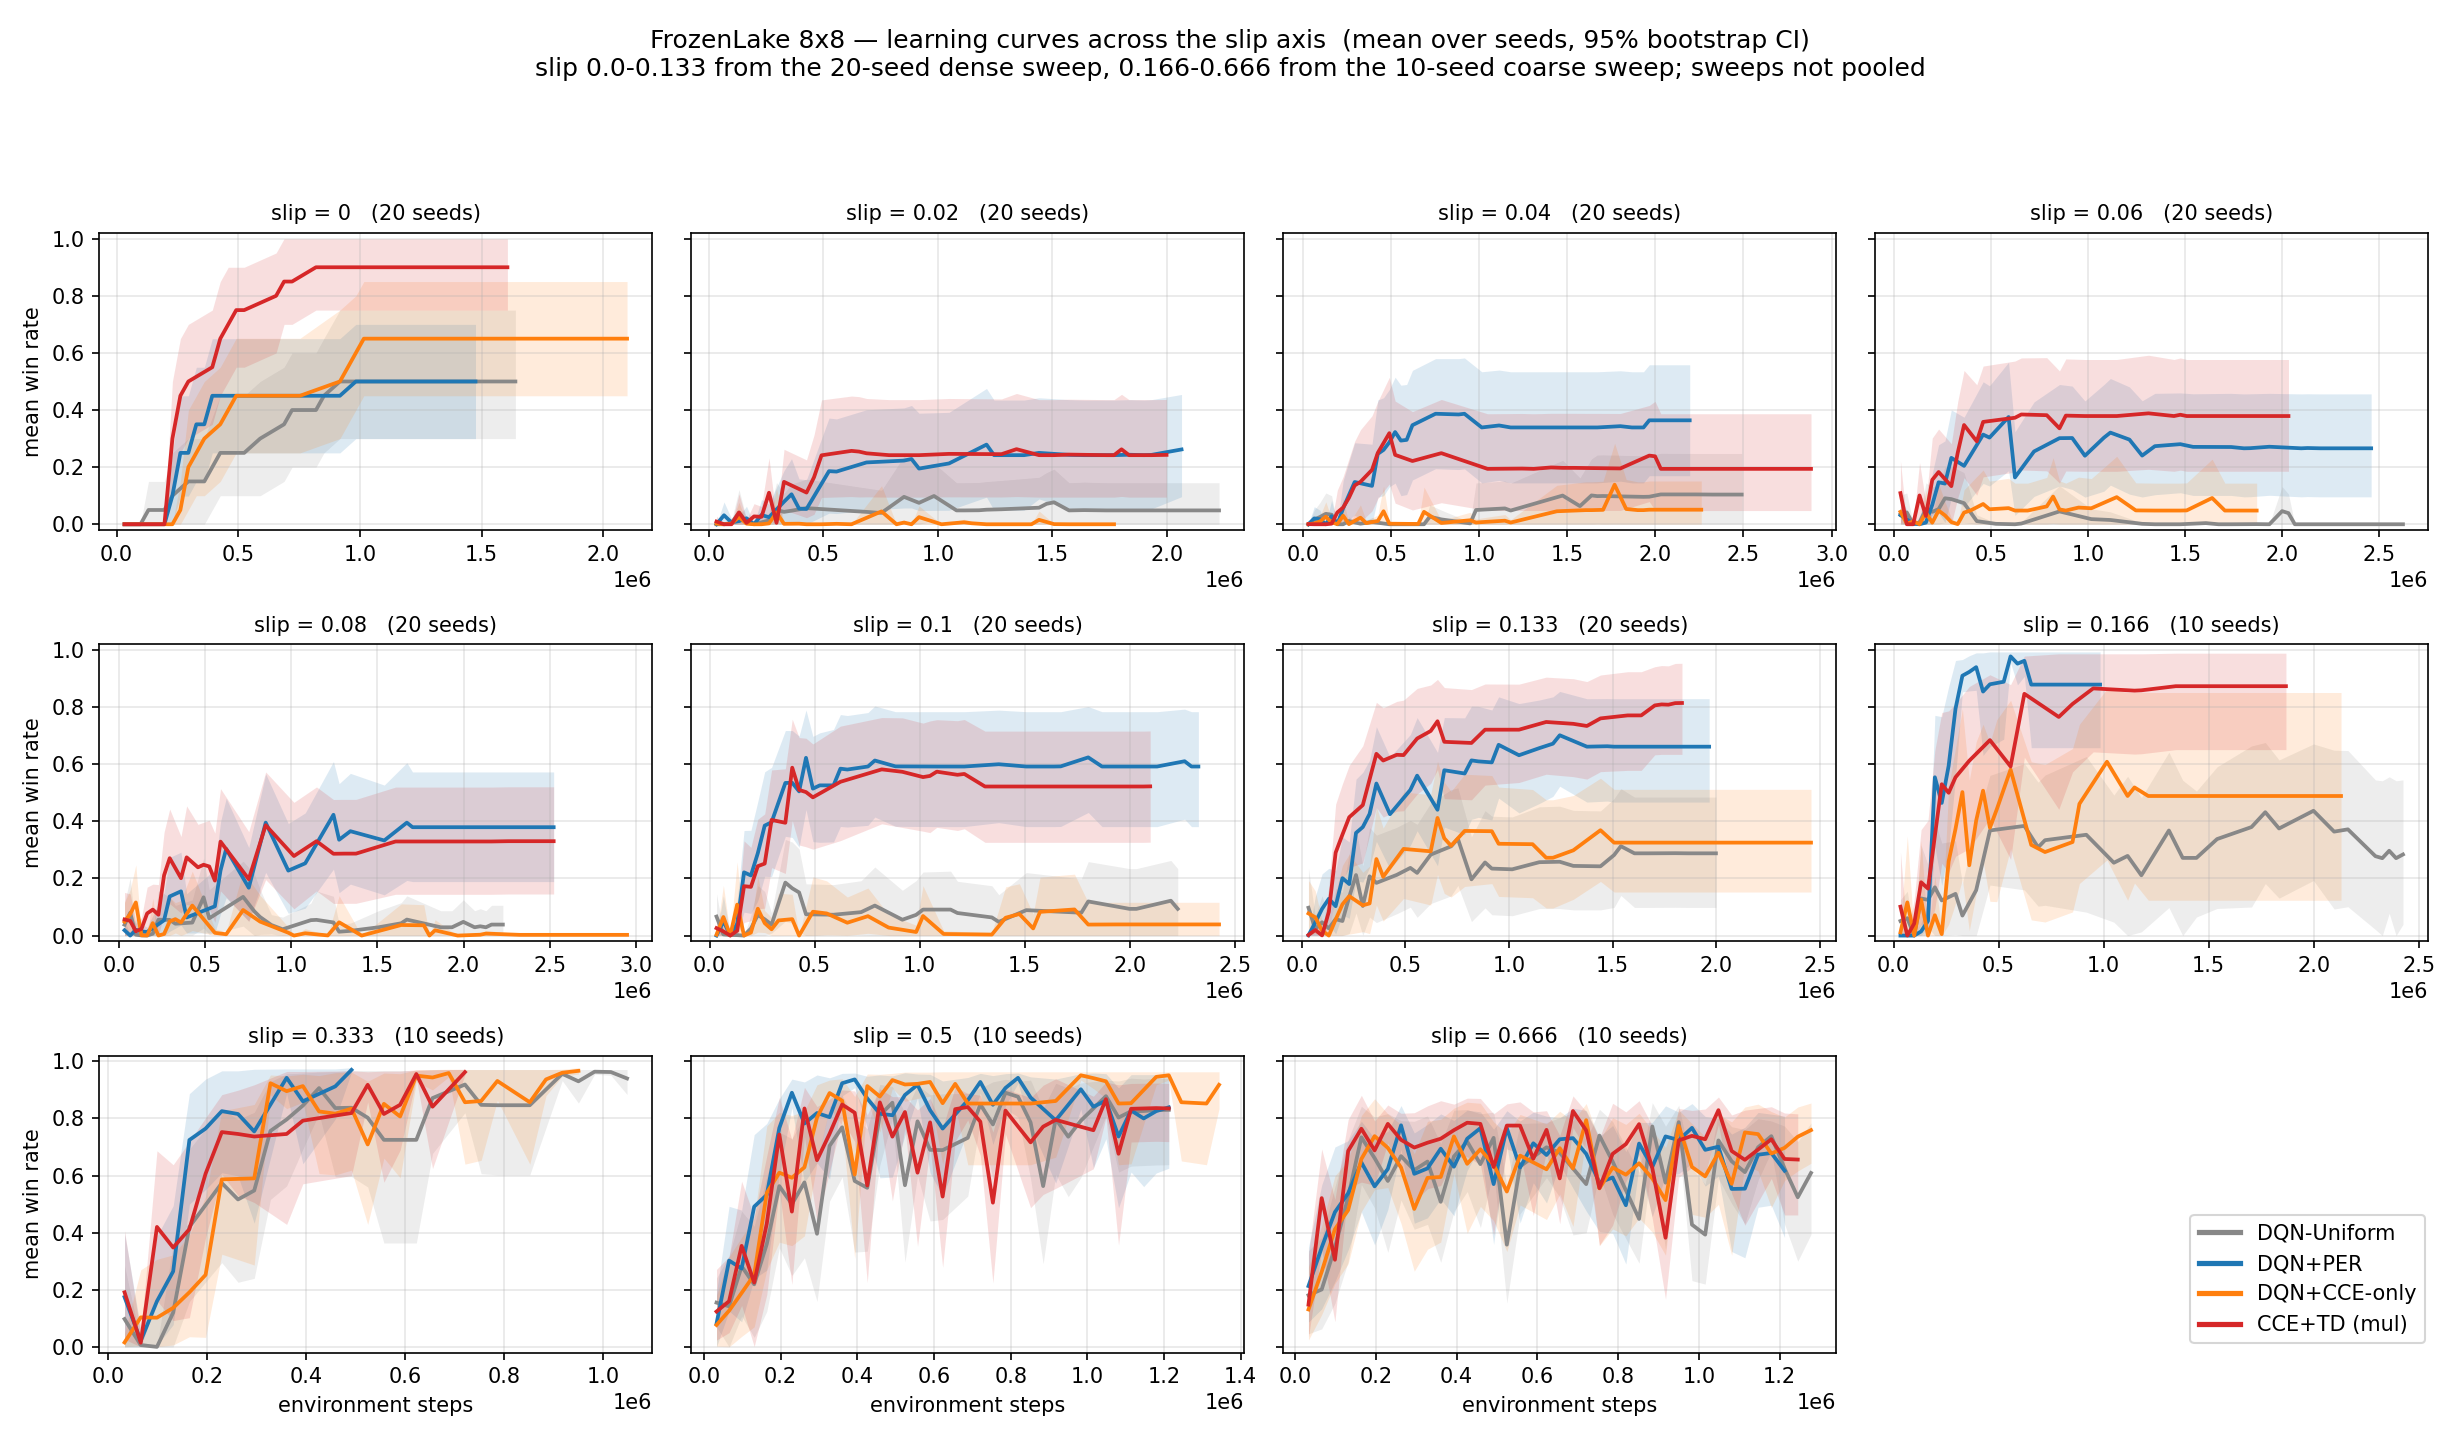
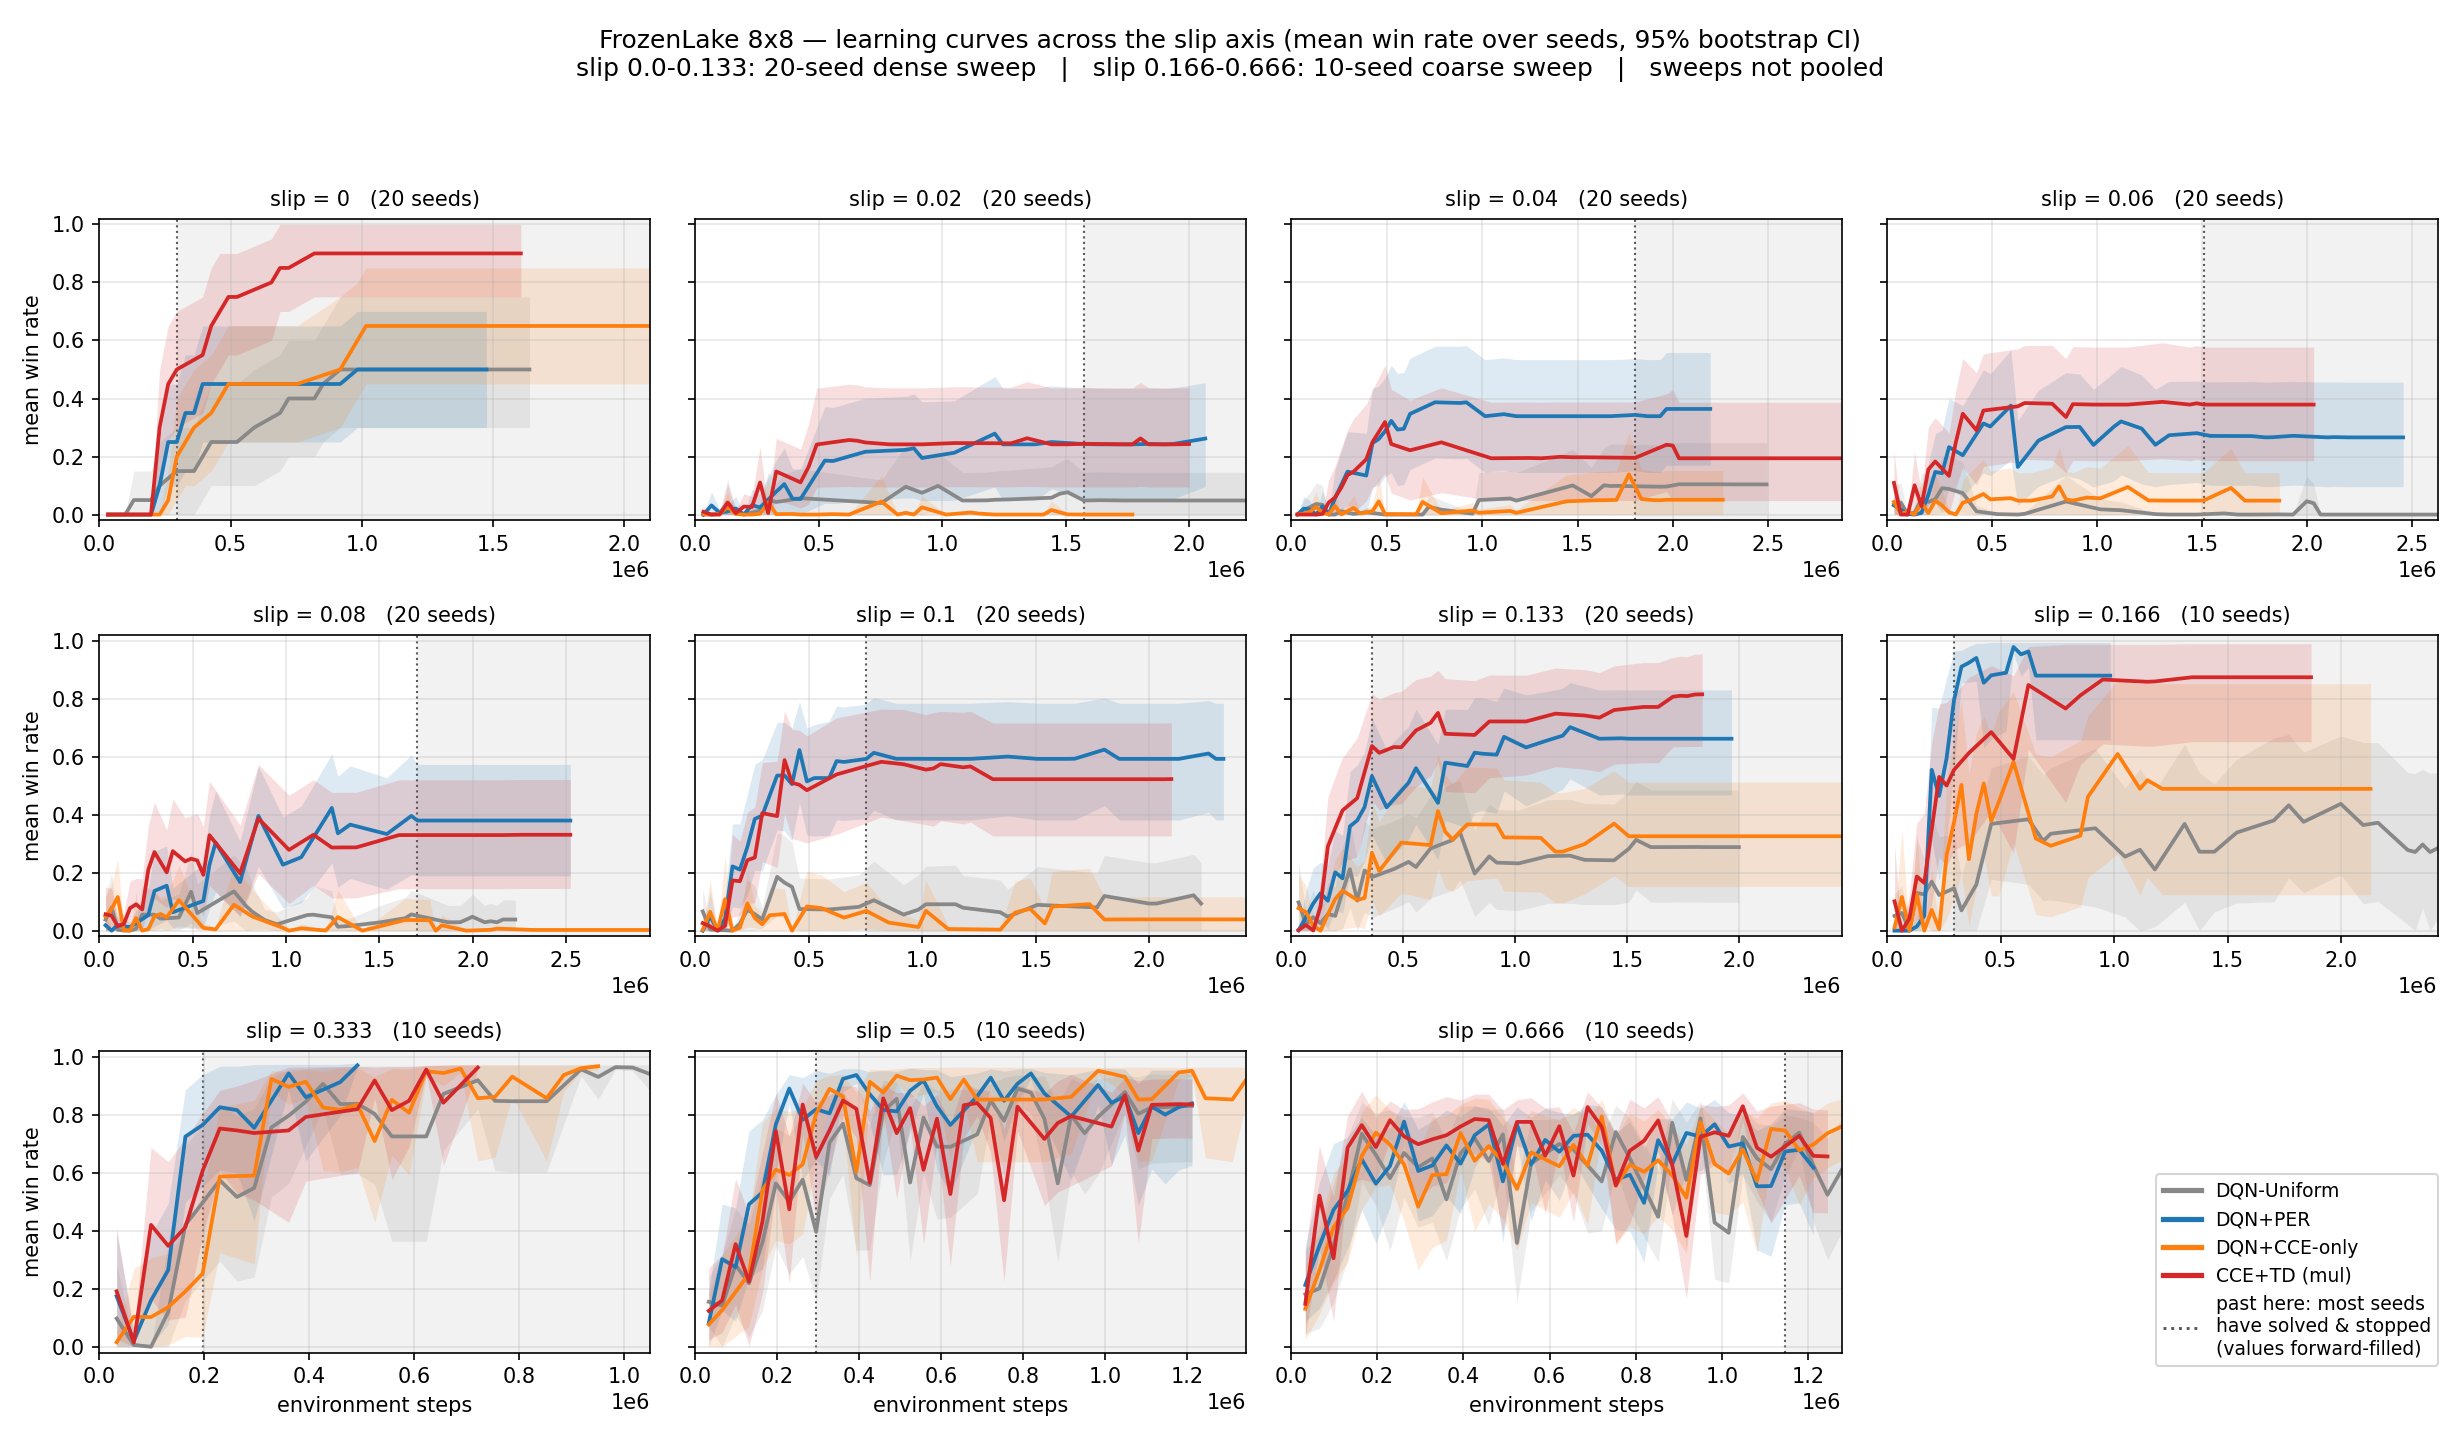
graded_slip_curves: mark where curves stop being real measurements
early_stop_win_rate ends a run WHEN IT SOLVES, and load_manifest then forward-
fills it to the longest seed's length. So the best arm has the shortest real
curves and the most padding — at slip 0 the median CCE-mul seed has 9 real
checkpoints against a max of 29, meaning most of the plotted red tail was frozen
values. The first version of this figure showed that tail with no indication,
which read as ragged, untrustworthy line-ends and flat CI blocks.

Curves are still drawn in full (the imputation is defensible: a run is missing
because it succeeded, not at random) but everything past the point where half the
seeds of some arm have stopped is now shaded grey with a dotted boundary and a
legend entry. Truncating there instead was tried and is worse — it cuts the
strongest arm mid-rise and understates it.

diff --git a/src/counterfactual_rl/analysis/claim2/graded_slip_curves.py b/src/counterfactual_rl/analysis/claim2/graded_slip_curves.py
@@ -33,7 +33,20 @@ import matplotlib
 matplotlib.use("Agg")
 import matplotlib.pyplot as plt
 
-from .parse_logs import load_manifest, filter_complete_runs
+from .parse_logs import (load_manifest, filter_complete_runs, _find_run_dir,
+                         _parse_single_log)
+
+
+def _alg_label(cfg):
+    """Same labelling load_manifest uses, so real-length bookkeeping lines up."""
+    alg = cfg.get("algorithm", "dqn-uniform")
+    if alg == "dqn-uniform":
+        return "DQN-Uniform"
+    if alg == "dqn":
+        return "DQN+PER"
+    if cfg.get("priority_mixing") == "multiplicative":
+        return "CCE+TD (mul)"
+    return "DQN+CCE-only" if float(cfg.get("mu", 0.25)) >= 1.0 else "CCE+TD (add)"
 
 ALG_ORDER = ["DQN-Uniform", "DQN+PER", "DQN+CCE-only", "CCE+TD (mul)"]
 COLORS = {
@@ -89,15 +102,30 @@ def collect(repo_root):
         with open(sub_path, "w") as f:
             json.dump(sub, f)
         data = load_manifest(sub_path)
+        # How far each seed's REAL evaluation curve goes, before load_manifest
+        # forward-fills it. Needed because early_stop_win_rate ends a run when it
+        # SOLVES, so the best arm has the shortest real curves and the most
+        # padding — plotting the padded tail would flatter exactly the arm we are
+        # trying to judge.
+        real_len = {}
+        for j, cfg in sub.items():
+            rd = _find_run_dir(j, "")
+            _, wr, _, _, _, _ = _parse_single_log(os.path.join(rd, "metrics.log"))
+            real_len.setdefault(_alg_label(cfg), []).append(len(wr))
+
         per_alg = {}
         for alg, arr3 in data["raw"].items():
             arr = arr3[:, 0, :]                       # (n_seeds, T)
             steps = np.asarray(data["eval_steps"][alg], dtype=float)[:arr.shape[1]]
             mean = arr.mean(axis=0)
             lo, hi = _boot_mean_ci(arr)
+            lens = np.array(real_len.get(alg, [arr.shape[1]]))
+            # index up to which at least half the seeds still have real data
+            half = int(np.median(lens))
             per_alg[alg] = {
                 "steps": steps, "mean": mean, "lo": lo, "hi": hi,
                 "n": arr.shape[0], "raw": arr,
+                "real_lens": lens, "half_real_idx": min(half, len(steps)) - 1,
             }
         out[p] = (source, per_alg)
     return out
@@ -114,6 +142,19 @@ def plot(curves, out_dir):
     for i, p in enumerate(slips):
         ax = axes[i // ncol][i % ncol]
         source, per_alg = curves[p]
+
+        # Runs stop early WHEN THEY SOLVE, so a stopped seed is held at its last
+        # (high) value. That imputation is defensible — the run isn't missing at
+        # random, it's missing because it succeeded — but the reader has to know
+        # where it starts. Curves are drawn in full; the region past the point
+        # where half the seeds of some arm have stopped is shaded and marked.
+        x_solid = min(d["steps"][max(d["half_real_idx"], 0)] for d in per_alg.values())
+        x_end = max(d["steps"][-1] for d in per_alg.values())
+
+        if x_solid < x_end:
+            ax.axvspan(x_solid, x_end, color="0.5", alpha=0.10, lw=0, zorder=0)
+            ax.axvline(x_solid, color="0.35", ls=":", lw=1.0, zorder=1)
+
         for alg in ALG_ORDER:
             if alg not in per_alg:
                 continue
@@ -124,6 +165,7 @@ def plot(curves, out_dir):
                             color=COLORS[alg], alpha=0.15, lw=0)
         tag = "20 seeds" if source == "dense" else "10 seeds"
         ax.set_title(f"slip = {p:g}   ({tag})", fontsize=10)
+        ax.set_xlim(0, x_end)
         ax.set_ylim(-0.02, 1.02)
         ax.grid(alpha=0.3)
         ax.ticklabel_format(axis="x", style="sci", scilimits=(0, 0))
@@ -136,14 +178,17 @@ def plot(curves, out_dir):
         axes[j // ncol][j % ncol].axis("off")
 
     handles = [plt.Line2D([], [], color=COLORS[a], lw=2.5, label=a) for a in ALG_ORDER]
-    fig.legend(handles=handles, loc="lower right", ncol=1, fontsize=10,
-               bbox_to_anchor=(0.99, 0.06), frameon=True)
-    fig.suptitle("FrozenLake 8x8 — learning curves across the slip axis  "
-                 "(mean over seeds, 95% bootstrap CI)\n"
-                 "slip 0.0-0.133 from the 20-seed dense sweep, 0.166-0.666 from the "
-                 "10-seed coarse sweep; sweeps not pooled",
-                 fontsize=12)
-    fig.tight_layout(rect=[0, 0, 1, 0.93])
+    handles.append(plt.Line2D([], [], color="0.35", ls=":", lw=1.4,
+                              label="past here: most seeds\nhave solved & stopped\n(values forward-filled)"))
+    fig.legend(handles=handles, loc="lower right", ncol=1, fontsize=9,
+               bbox_to_anchor=(0.995, 0.045), frameon=True)
+    fig.suptitle(
+        "FrozenLake 8x8 — learning curves across the slip axis "
+        "(mean win rate over seeds, 95% bootstrap CI)\n"
+        "slip 0.0-0.133: 20-seed dense sweep   |   slip 0.166-0.666: 10-seed coarse "
+        "sweep   |   sweeps not pooled",
+        fontsize=12)
+    fig.tight_layout(rect=[0, 0, 1, 0.94])
     path = os.path.join(out_dir, "fig_learning_curves_all_slips.png")
     fig.savefig(path, dpi=150)
     plt.close(fig)
